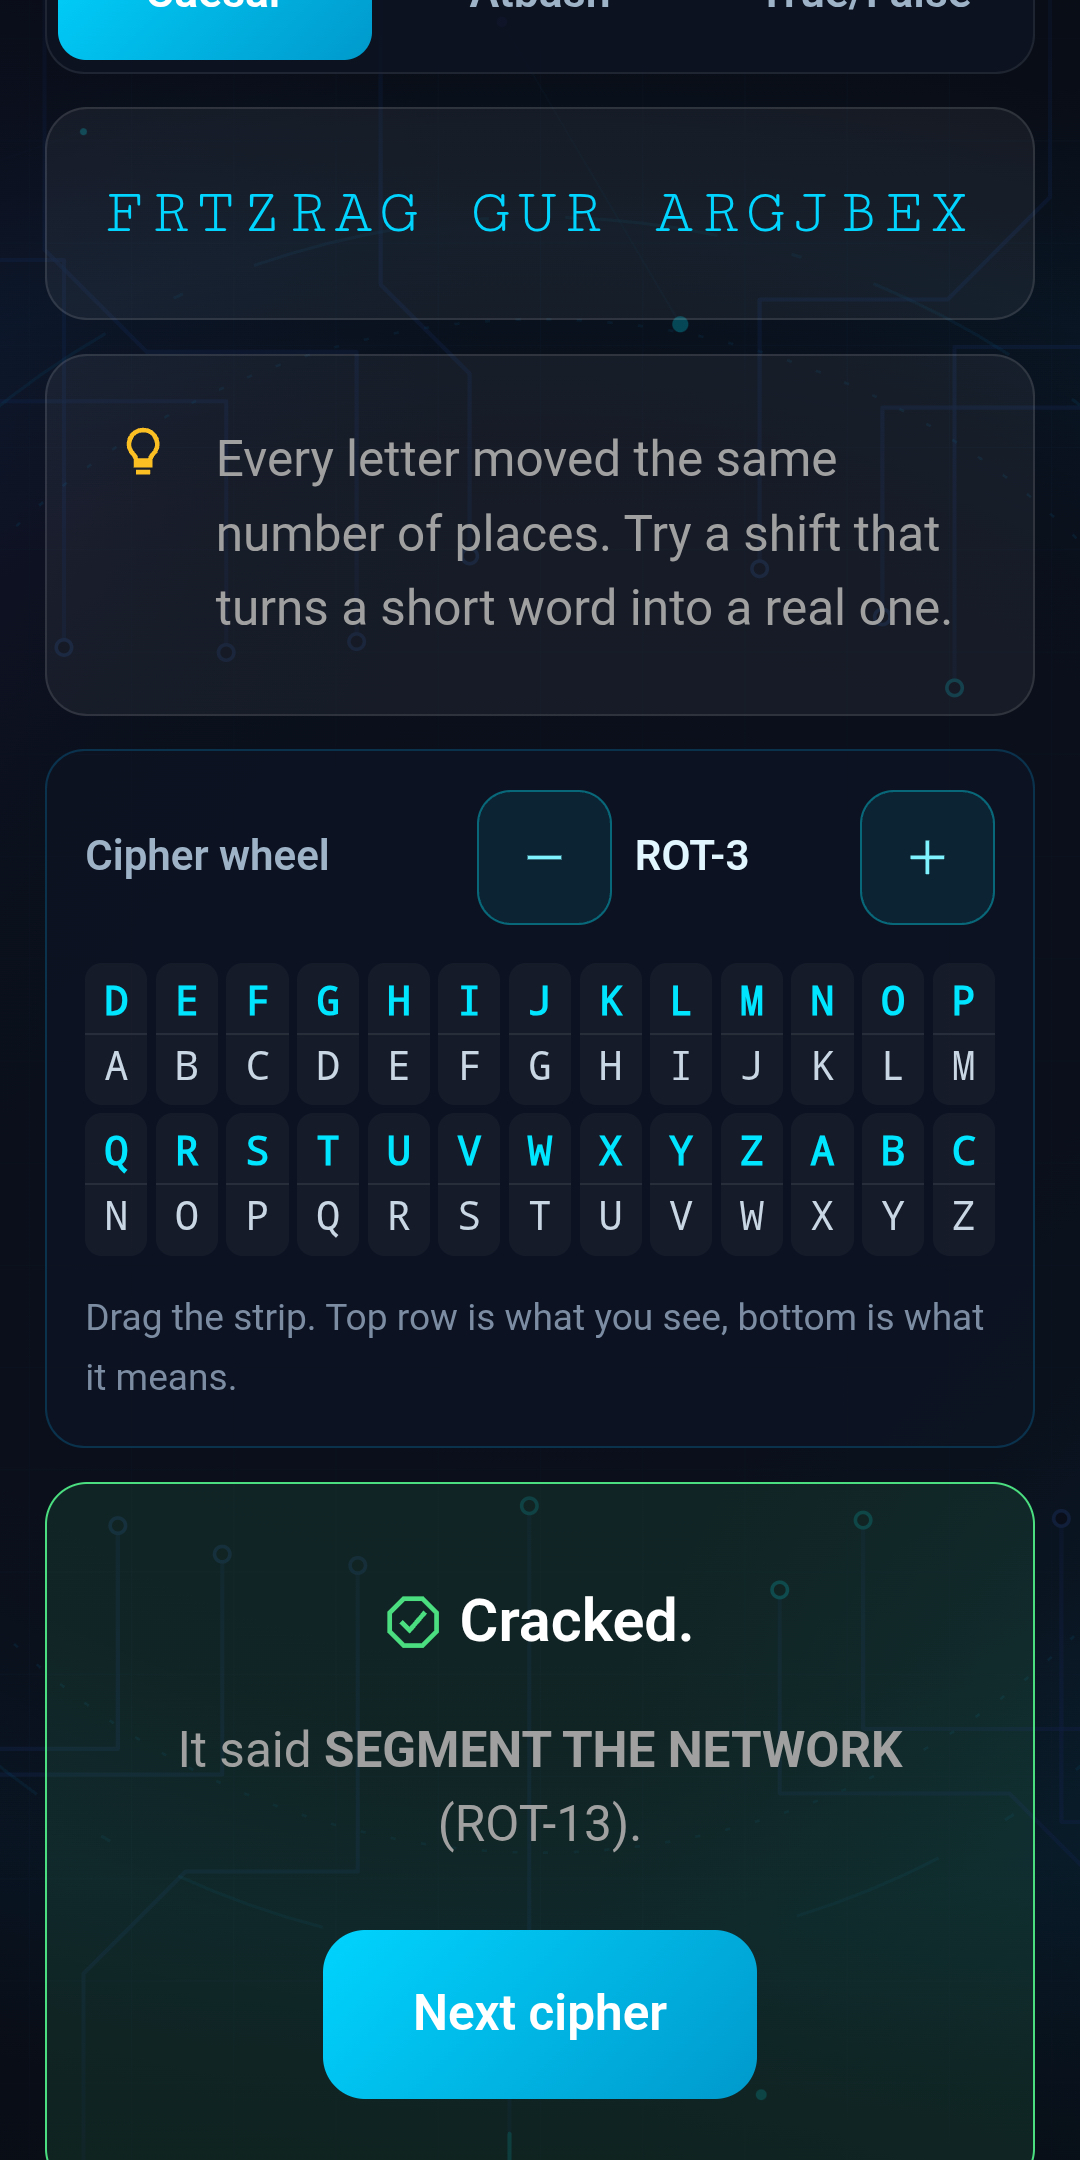
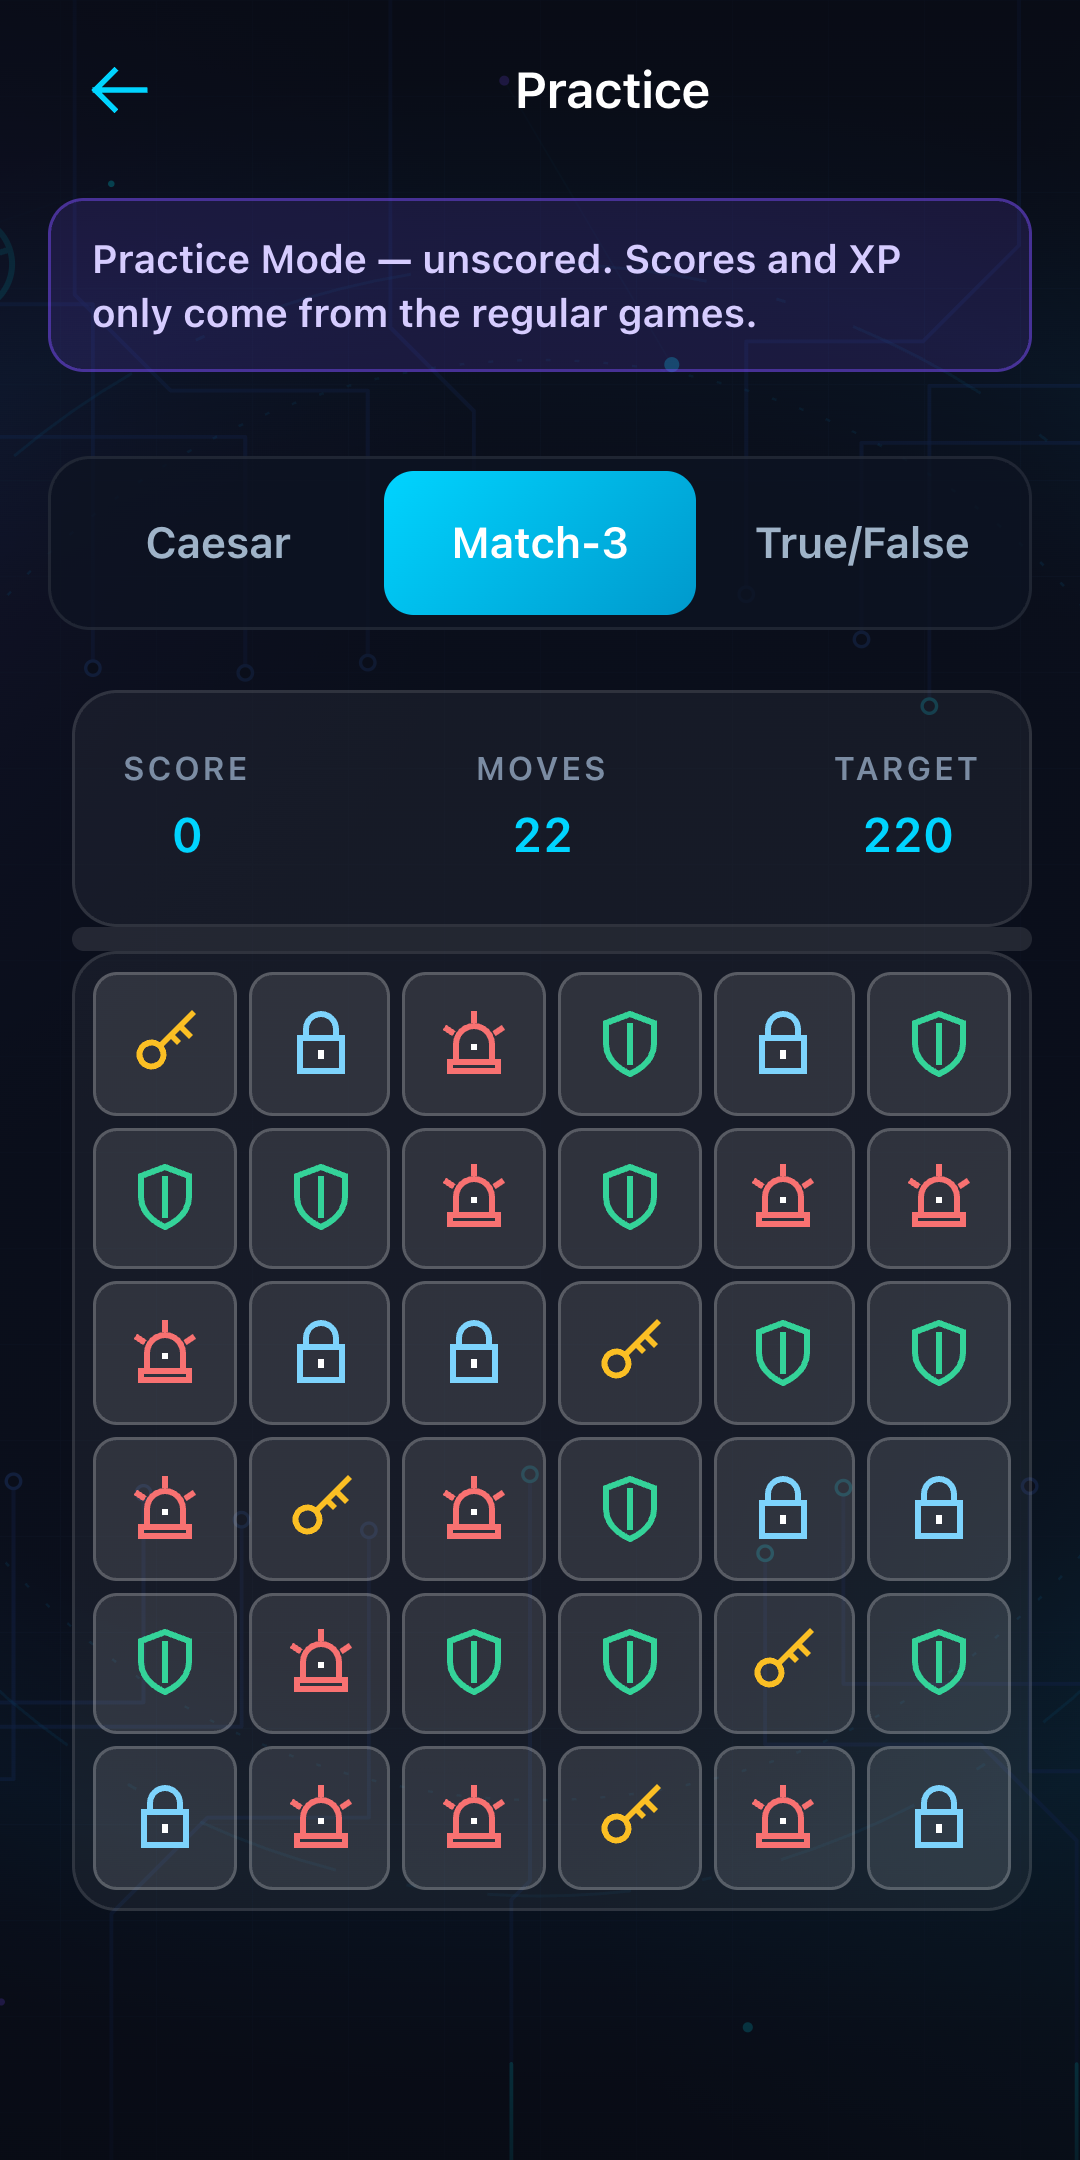
Store: Match-3 practice screenshot replaces the Atbash one

diff --git a/mobile/store/google-play.md b/mobile/store/google-play.md
@@ -63,7 +63,7 @@ The package name comes from the first upload: `com.aximoix.cipherrush`.
 - Feature graphic: `feature-graphic-1024x500.png`.
 - Phone screenshots (24-bit PNG, no alpha, as Play requires): `phone-1-welcome.png` and `phone-2-practice.png`, 1080×2160
   (Play's 2:1 maximum), taken on a Galaxy SM-E135F with the status bar cropped
-  off. That's the 2 Play requires. **Retake `phone-2-practice.png`**: its top edge still shows the old Atbash tab, which Match-3 has replaced. Better ones to add later: a Cipher puzzle
+  off (the welcome shot). That's the 2 Play requires. `phone-2-practice.png` is the Match-3 practice board, rendered from the production web build at 360×720 CSS px ×3 in headless Chrome (the same UI the app ships). Better ones to add later: a Cipher puzzle
   mid-solve, Rush with a combo, and the leaderboard. Crop new captures the same
   way: `sips -c 2160 1080 --cropOffset 130 0 file.png`.
 
